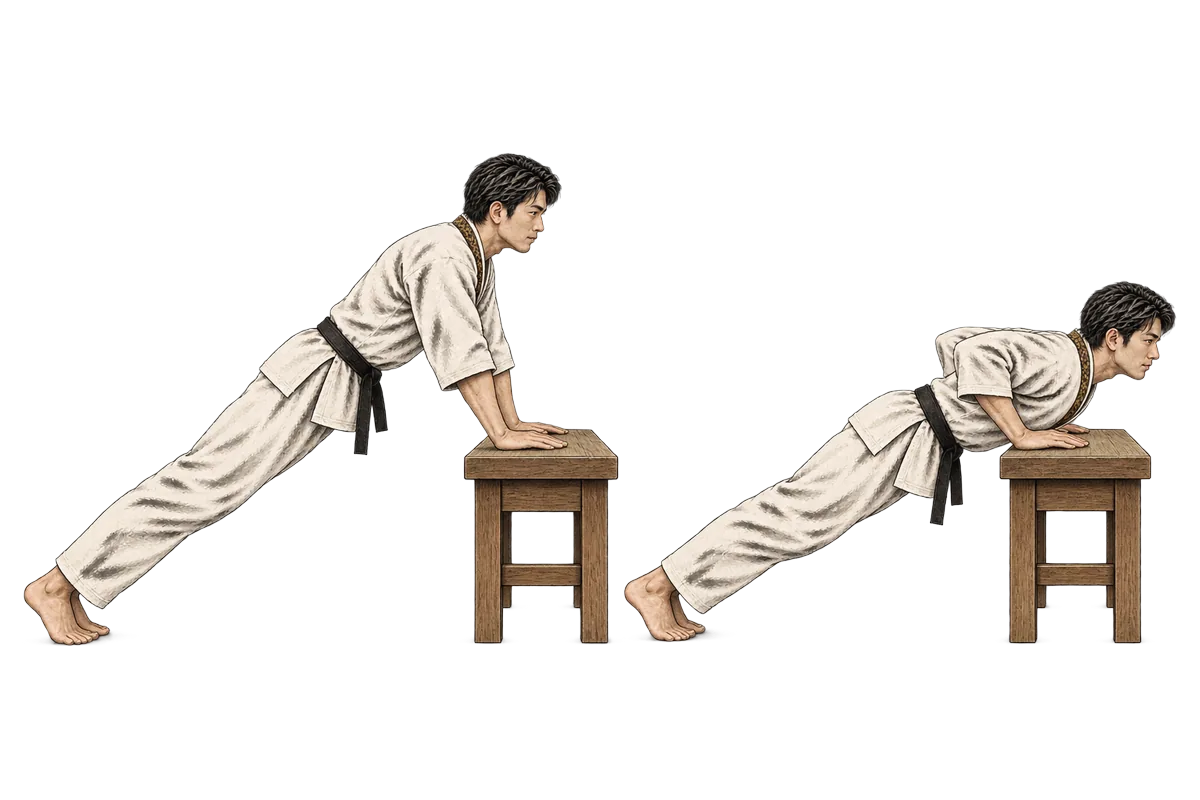
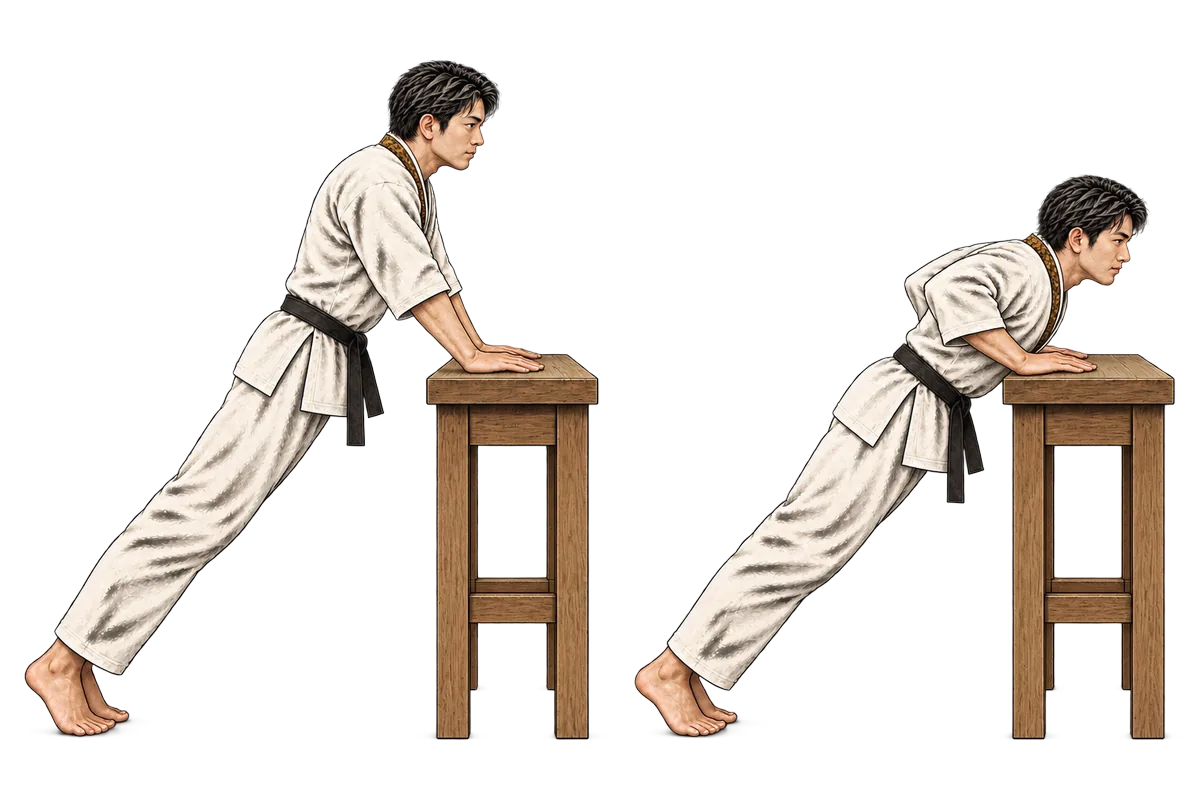
v0.21.13: Replace the Push-up Lv.2 picture with a waist-high box
Claude-Session: https://claude.ai/code/session_01KcNjAAMXczDP8kvpzxopU7

Changed region(s): [[0.0, 0.0625, 0.9867, 0.9375]]

diff --git a/index.html b/index.html
@@ -1157,7 +1157,7 @@ function microGoalCard(){
 }
 
 let currentAvatar='🧘';
-const APP_VERSION='v0.21.12';
+const APP_VERSION='v0.21.13';
 // 六種の修行のカテゴリ色（すごろくの円グラフ配色に使用）
 const CAT_COLORS={ push:'#D55E00', pull:'#E69F00', squat:'#56B4E9', core:'#F0E442', bridge:'#0072B2', hand:'#009E73' };
 let SUM=EX.reduce((a,e)=>a+e.cur,0);
